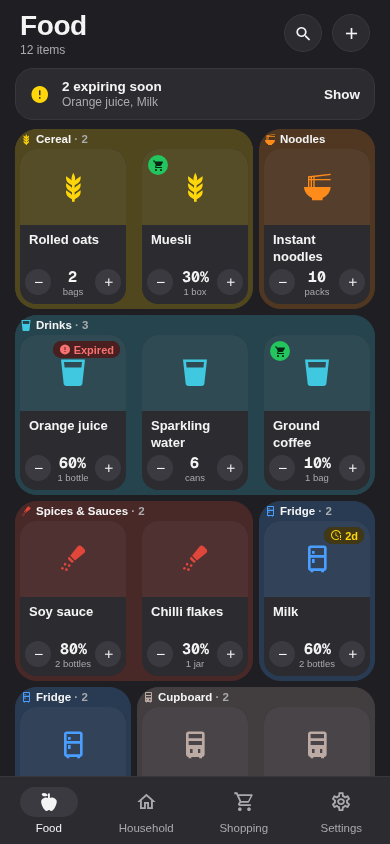
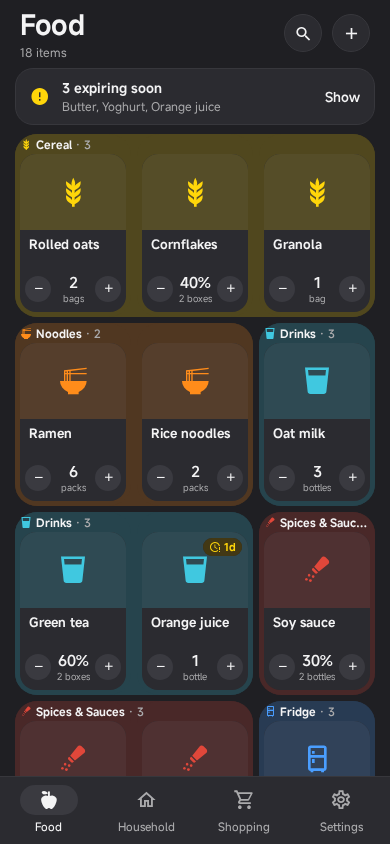
README: MiSans and the tile, the form's labels, and new screenshots
The screenshots are of made-up items, taken from the laptop version at
phone size (390 × 844) and at 1600 × 900, as before.

diff --git a/README.md b/README.md
@@ -94,7 +94,8 @@ npm start
 
 Scan the QR code with Expo Go, or press `a` / `i` in the terminal to open an
 Android or iOS simulator. There are no custom native modules, so Expo Go is
-enough for day-to-day development.
+enough for day-to-day development. Expo Go draws the text in the phone's own
+font: MiSans is built into the app (`app.json`), so it shows in a real build.
 
 The rules behind the app (counting, the shopping list, merging, recovery, the
 sync's safety checks and the colour contrast) have tests:
@@ -251,9 +252,9 @@ amount.
 ### When something goes on the shopping list
 
 Turn on "When it's running low" for things you always buy again, then say how
-low. "With this many left" counts the open one too. For an item counted in %, you
-can also look at the open one, say at 20%, and choose whether it goes on the list
-when both are true or when either is. Running out always puts it on the list. An
+low. "Down to" counts the open one too. For an item counted in %, you can also
+watch the open one, say at 20%, and choose whether it goes on the list when both
+are true or when either is. Running out always puts it on the list. An
 item you haven't set this for goes on when it runs out, or, if it's counted in %,
 when the last one is down to 20%.
 
@@ -272,9 +273,11 @@ src/
   screens/              Food and Household tabs, Shopping, Settings, Home
                         server, Your categories, Add, Edit, Item detail, and
                         the page for unreadable data
-  components/           the shared building blocks (ui.js), the item form,
-                        item cards, category grid, stepper, toast, badges
-  desktop/              the page the laptop version puts round the app's screens
+  components/           the shared building blocks (ui.js), Text in the app's
+                        font (Text.js), the item form, item cards, category
+                        grid, stepper, toast, badges
+  desktop/              the page the laptop version puts round the app's
+                        screens, and the font's stylesheet
   context/              inventory state, theme, reminders, home server sync
                         and updates
   utils/                the inventory rules (inventoryLogic.js), types,
@@ -282,8 +285,10 @@ src/
                         tokens, storage, backups, photos, reminders, haptics,
                         home server requests, sync and updates
 test/                   tests for the rules above
-assets/                 app icon, splash image and the Geist Mono font
-public/fonts/           Geist, the laptop version's text font
+assets/                 the tile (icon.svg, icon-16.svg for the smallest sizes),
+                        the app icons, splash image and logo drawn from it, and
+                        MiSans for Android
+public/                 MiSans and the favicon for the laptop version
 server/                 the home server and its tests
 scripts/release.mjs     builds the APK or the laptop version and publishes it to
                         the home server; release-guard.js holds its checks
@@ -294,8 +299,11 @@ scripts/release.mjs     builds the APK or the laptop version and publishes it to
 React Native, [Expo](https://expo.dev/) (SDK 54),
 [React Navigation](https://reactnavigation.org/) and
 [AsyncStorage](https://react-native-async-storage.github.io/async-storage/) for
-local persistence. Numbers are set in [Geist Mono](https://github.com/vercel/geist-font),
-under the SIL Open Font License ([`assets/fonts/GeistMono-OFL.txt`](assets/fonts/GeistMono-OFL.txt)).
+local persistence. All text, numbers included, is set in
+[MiSans](https://hyperos.mi.com/font) by Xiaomi, free for commercial use and
+embedded under its terms, which ask for the credit kept in Settings → About.
+The files are the official MiSans Latin ones, unchanged; its Bold and Heavy
+aren't bundled, because they draw "@" as "&".
 
 ## License
 
